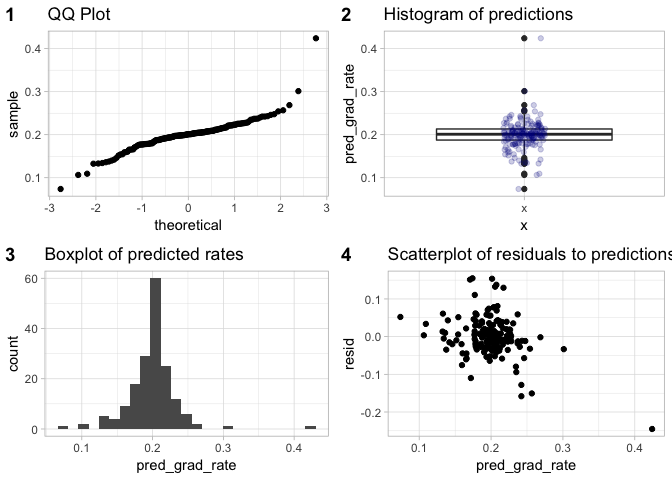
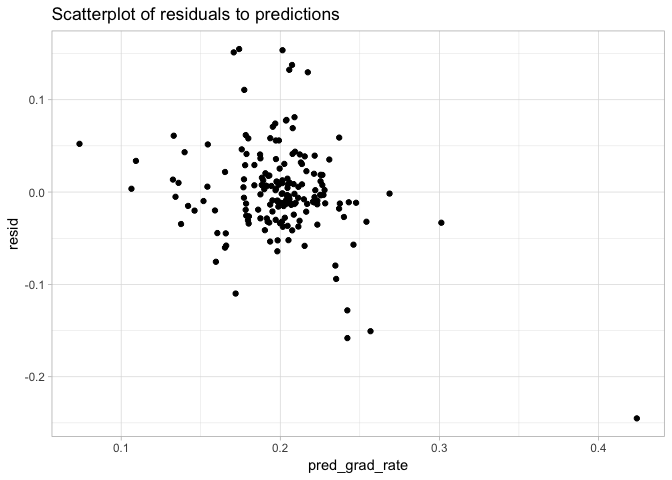
done with this
I could add more text / context here but at the moment I dont really care to.

diff --git a/classifier.md b/classifier.md
@@ -71,7 +71,51 @@ model.10 <- lm(grad_rate ~ spending_per_award
              + pell_value*med_sat_value           #PellXSat
              + fresh_retain_value*med_sat_value   #RetainXSat
              ,data = training_without_outliers)
+summary(model.10)
 ```
+
+    ## 
+    ## Call:
+    ## lm(formula = grad_rate ~ spending_per_award + full_time_count + 
+    ##     med_sat_value + endow_value + grad_on_time_pct + pell_value + 
+    ##     fresh_retain_value + endow_value * spending_per_award + pell_value * 
+    ##     med_sat_value + fresh_retain_value * med_sat_value, data = training_without_outliers)
+    ## 
+    ## Residuals:
+    ##       Min        1Q    Median        3Q       Max 
+    ## -0.090583 -0.019322 -0.002423  0.018602  0.099142 
+    ## 
+    ## Coefficients:
+    ##                                    Estimate Std. Error t value Pr(>|t|)
+    ## (Intercept)                       8.082e-01  1.967e-01   4.109 4.89e-05
+    ## spending_per_award               -7.724e-07  6.446e-08 -11.982  < 2e-16
+    ## full_time_count                   9.008e-07  2.184e-07   4.125 4.57e-05
+    ## med_sat_value                    -6.143e-04  1.958e-04  -3.138 0.001834
+    ## endow_value                      -2.216e-06  5.588e-07  -3.965 8.77e-05
+    ## grad_on_time_pct                  1.030e-01  1.257e-02   8.189 4.15e-15
+    ## pell_value                       -5.199e-01  1.372e-01  -3.790 0.000175
+    ## fresh_retain_value               -4.762e-01  2.017e-01  -2.361 0.018733
+    ## spending_per_award:endow_value    2.709e-11  6.687e-12   4.051 6.21e-05
+    ## med_sat_value:pell_value          5.257e-04  1.381e-04   3.807 0.000164
+    ## med_sat_value:fresh_retain_value  5.096e-04  2.008e-04   2.538 0.011566
+    ##                                     
+    ## (Intercept)                      ***
+    ## spending_per_award               ***
+    ## full_time_count                  ***
+    ## med_sat_value                    ** 
+    ## endow_value                      ***
+    ## grad_on_time_pct                 ***
+    ## pell_value                       ***
+    ## fresh_retain_value               *  
+    ## spending_per_award:endow_value   ***
+    ## med_sat_value:pell_value         ***
+    ## med_sat_value:fresh_retain_value *  
+    ## ---
+    ## Signif. codes:  0 '***' 0.001 '**' 0.01 '*' 0.05 '.' 0.1 ' ' 1
+    ## 
+    ## Residual standard error: 0.02798 on 376 degrees of freedom
+    ## Multiple R-squared:  0.5046, Adjusted R-squared:  0.4915 
+    ## F-statistic:  38.3 on 10 and 376 DF,  p-value: < 2.2e-16
 
 ## putting predictions into training
 
@@ -177,7 +221,7 @@ testing_predictions_histogram <- testing_with_predictions %>%
   ggplot() +
   geom_histogram(aes(x = pred_grad_rate), bins = 25) +
   theme_light() +
-  labs(title = "Boxplot of predicted rates")
+  labs(title = "Histogram of predictions")
 
 #boxplot the predictions
 testing_predictions_boxplot <- testing_with_predictions %>% 
@@ -186,23 +230,39 @@ testing_predictions_boxplot <- testing_with_predictions %>%
   geom_boxplot() + 
   geom_jitter(alpha = 0.2, width = .09, color = "darkblue") +
   theme_light() +
-  labs(title = "Histogram of predictions")
+  labs(title = "Boxplot of predictions",
+       x = "")
 
 #scatterplot predictions vs residuals
 testing_pred_vs_resids <- testing_with_predictions %>% 
-  ggplot() +
-  geom_point(aes(x = pred_grad_rate, y = resid)) +
+  ggplot(aes(x = pred_grad_rate, y = resid, 
+             label = round(pred_grad_rate,2))) +
+  geom_point() +
+ # geom_label() +
   theme_light() +
   labs(title = "Scatterplot of residuals to predictions")
 
-cowplot::plot_grid(testing_QQ, 
+testing_pred_vs_resids
+```
+
+![](classifier_files/figure-gfm/unnamed-chunk-3-1.png)<!-- -->
+
+``` r
+cowplot_results <- cowplot::plot_grid(testing_QQ, 
                    testing_predictions_boxplot, 
                    testing_predictions_histogram, 
                    testing_pred_vs_resids,
                    labels = c("1", "2", "3", "4"))
+cowplot_results
 ```
 
-![](classifier_files/figure-gfm/unnamed-chunk-3-1.png)<!-- -->
+![](classifier_files/figure-gfm/unnamed-chunk-3-2.png)<!-- -->
+
+``` r
+ggsave("results_cowplot.jpg")
+```
+
+    ## Saving 7 x 5 in image
 
 1.  QQ plot shows generally normal behavior with a few outliers on the
     top end; much like the training data.
@@ -248,7 +308,7 @@ vlines <- as.matrix(testing_with_predictions %>%
 colorlist <- c("chartreuse4", "green3", "ivory4", "orangered2", "darkred")
 
 # visualize the classification
-testing_with_predictions %>% 
+classified_histogram <- testing_with_predictions %>% 
   ggplot() +
   geom_histogram(aes(x = scaled_pred, fill = Classifications), binwidth = .15) +
   geom_vline(aes(xintercept = vlines[1]), color = "blue", size = 1.5) +
@@ -261,6 +321,77 @@ testing_with_predictions %>%
        caption = "Red line is BC actual graduation rate,
   Blue line is BC predicted grad rate") +
   scale_fill_manual(values = colorlist)
+classified_histogram
 ```
 
 ![](classifier_files/figure-gfm/unnamed-chunk-4-1.png)<!-- -->
+
+``` r
+classified_histogram <- testing_with_predictions %>% 
+  ggplot() +
+  geom_histogram(aes(x = pred_grad_rate, fill = Classifications)) +
+  theme_light() +
+  theme(legend.position="right") +
+  labs(title = "Histogram of Graduation Predictions",
+       subtitle = "BC shows Average rates for both actual and prediction",
+       x = "Predicted Graduation Rate (scaled)",
+       caption = "Red line is BC actual graduation rate,
+  Blue line is BC predicted grad rate") +
+  scale_fill_manual(values = colorlist)
+classified_histogram
+```
+
+    ## `stat_bin()` using `bins = 30`. Pick better value with `binwidth`.
+
+![](classifier_files/figure-gfm/unnamed-chunk-4-2.png)<!-- -->
+
+``` r
+ggsave("classified_histogram.jpg")
+```
+
+    ## Saving 7 x 5 in image
+    ## `stat_bin()` using `bins = 30`. Pick better value with `binwidth`.
+
+``` r
+#show the worst outliers
+head(testing_with_predictions %>% 
+  mutate(delta = round(pred_grad_rate - grad_rate,3),
+         delta = abs(delta)) %>% 
+  arrange(desc(delta)) %>% 
+  select(institution_name, pred_grad_rate, grad_rate, delta)
+  , 10)
+```
+
+    ## # A tibble: 10 x 4
+    ##    institution_name                          pred_grad_rate grad_rate delta
+    ##    <chr>                                              <dbl>     <dbl> <dbl>
+    ##  1 Virginia Military Institute                        0.424     0.179 0.245
+    ##  2 Pennsylvania State University-Lehigh Val…          0.242     0.084 0.158
+    ##  3 Texas A & M University-Texarkana                   0.174     0.329 0.155
+    ##  4 Bismarck State College                             0.201     0.355 0.154
+    ##  5 Southern Illinois University at Carbonda…          0.171     0.322 0.151
+    ##  6 Pennsylvania State University-Altoona              0.257     0.106 0.151
+    ##  7 University of South Florida-Sarasota-Man…          0.207     0.345 0.138
+    ##  8 Metropolitan State University                      0.206     0.338 0.132
+    ##  9 Fort Hays State University                         0.217     0.347 0.13 
+    ## 10 Pennsylvania State University-Berks                0.242     0.114 0.128
+
+``` r
+# 
+testing_with_predictions %>% 
+  select(pred_grad_rate) %>% 
+  summarize(mean_cl = mean(pred_grad_rate),
+            stddev = sd(pred_grad_rate),
+            stddev_3 = stddev * 3,
+            stddev_2 = stddev * 2,
+            stddev_1 = stddev * 1,
+            low = mean_cl - stddev_3,
+            medlow = mean_cl - stddev_2,
+            medhigh = mean_cl + stddev_2,
+            high = mean_cl + stddev)
+```
+
+    ## # A tibble: 1 x 9
+    ##   mean_cl stddev stddev_3 stddev_2 stddev_1    low medlow medhigh  high
+    ##     <dbl>  <dbl>    <dbl>    <dbl>    <dbl>  <dbl>  <dbl>   <dbl> <dbl>
+    ## 1   0.200 0.0337    0.101   0.0674   0.0337 0.0984  0.132   0.267 0.233
